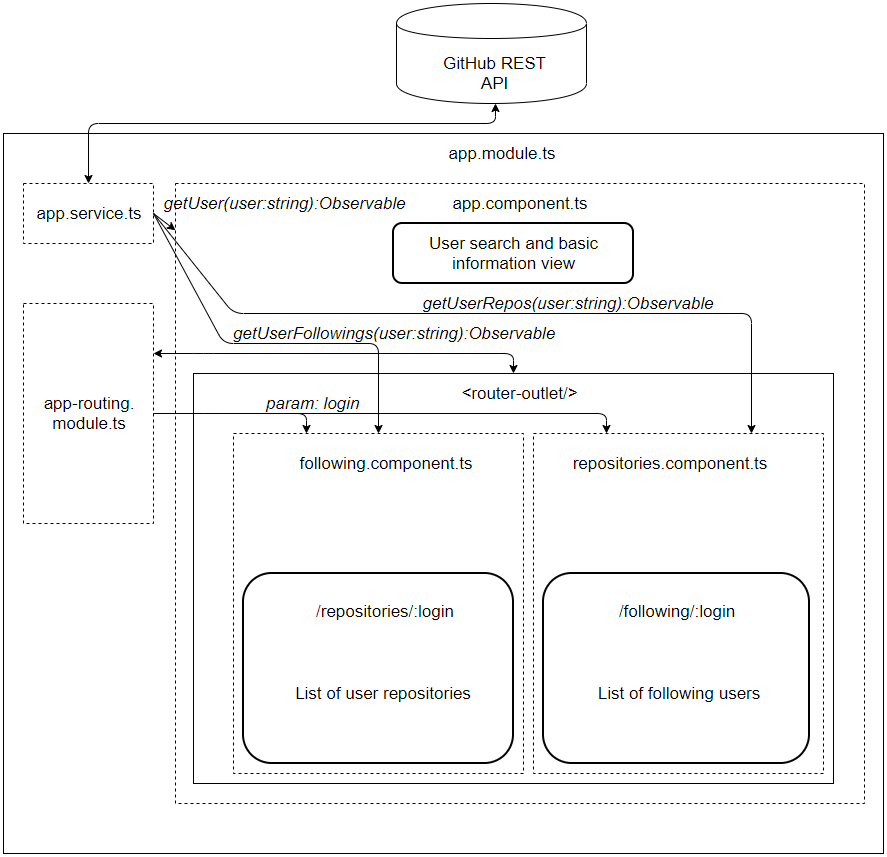
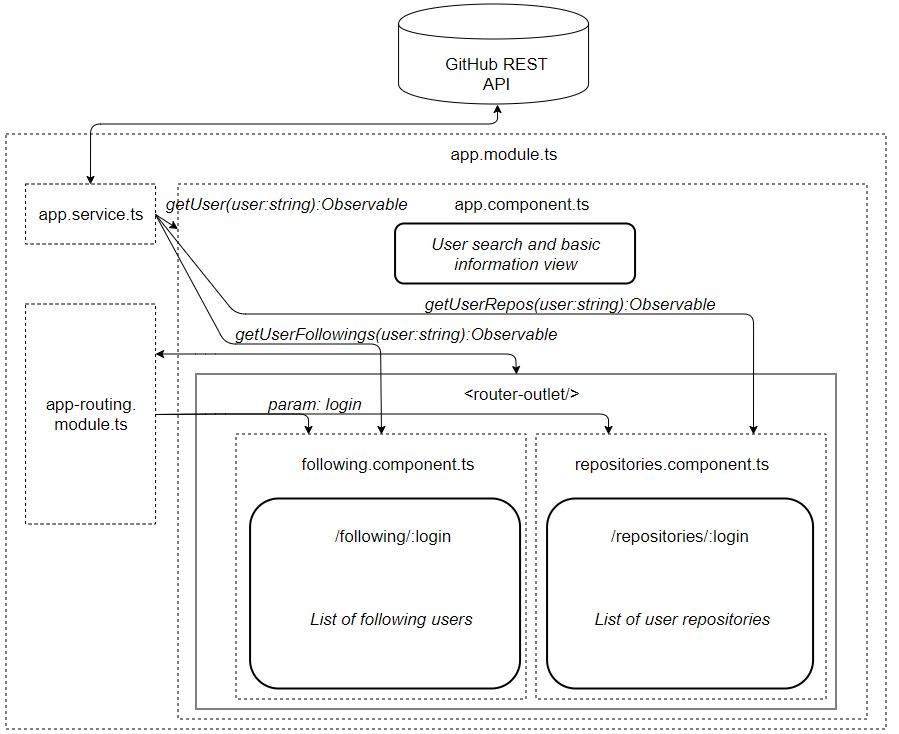
Add missing documentationm, fix diagrams

Changed region(s): [[0.0, 0.0, 1.0, 1.0], [0.0, 0.3896, 0.1522, 0.7193]]

diff --git a/README.md b/README.md
@@ -3,7 +3,7 @@
 Goal of this project is to create overview how to handle basic situations in different SPA frameworks. Subprojects should be build on top of official CLI
 
 - Basic code style and architecture
-- Dom event handeling
+- Dom event handling
 - Route management
 - REST requests 
 - Final bundle size

diff --git a/react-hw/README.md b/react-hw/README.md
@@ -1,0 +1,8 @@
+#### App structure React implementation
+
+##### External libraries
+
+-   [Axios](https://github.com/axios/axios)
+-   [React-Router](https://github.com/ReactTraining/react-router)
+
+![Appstructure](https://github.com/farmasek/spa-fws-basic-app/blob/master/app-structure/react-structure.PNG)

diff --git a/vue-hw/README.md b/vue-hw/README.md
@@ -1,0 +1,7 @@
+#### App structure Vue implementation
+
+##### External libraries
+
+-   [Axios](https://github.com/axios/axios)
+
+![Appstructure](https://github.com/farmasek/spa-fws-basic-app/blob/master/app-structure/vue-structure.PNG)
